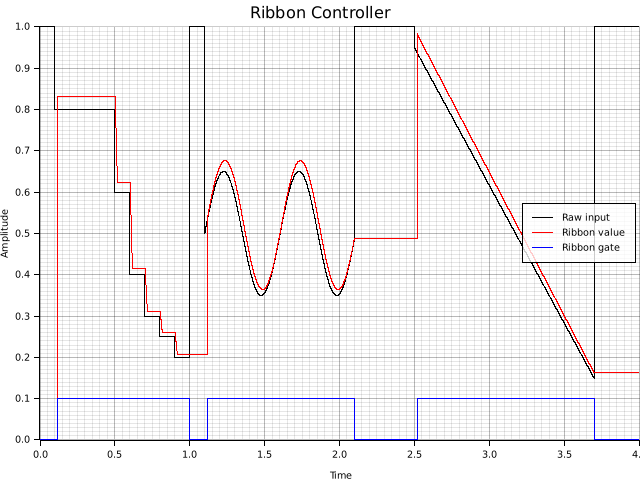
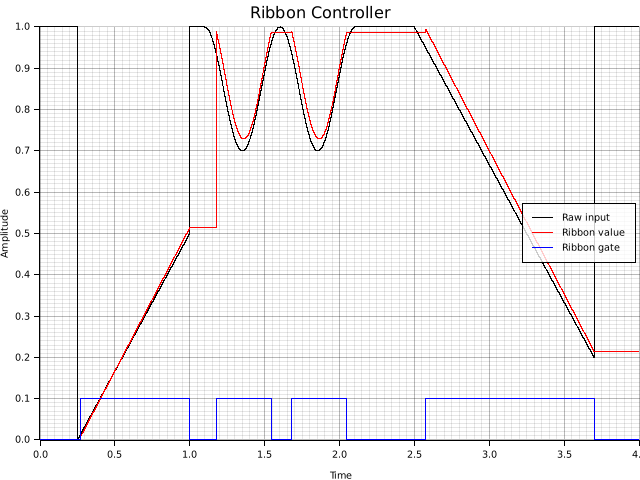
Update ribbon plot example to show clamping behavior

diff --git a/examples/ribbon_plot.rs b/examples/ribbon_plot.rs
@@ -24,33 +24,23 @@ fn main() -> Result<(), Box<dyn std::error::Error>> {
 
     // init the simulated ribbon samples to the out-of-bounds high value 1.0
     let mut mock_adc_signal: [f32; NUM_POINTS] = [1.0; NUM_POINTS];
-    // simulate some finger wiggling
-    // stairstep down pattern
-    mock_adc_signal[1000..5000]
-        .iter_mut()
-        .for_each(|x| *x = 0.80);
-    mock_adc_signal[5000..6000]
-        .iter_mut()
-        .for_each(|x| *x = 0.60);
-    mock_adc_signal[6000..7000]
-        .iter_mut()
-        .for_each(|x| *x = 0.40);
-    mock_adc_signal[7000..8000]
-        .iter_mut()
-        .for_each(|x| *x = 0.30);
-    mock_adc_signal[8000..9000]
-        .iter_mut()
-        .for_each(|x| *x = 0.25);
-    mock_adc_signal[9000..10000]
-        .iter_mut()
-        .for_each(|x| *x = 0.20);
+    // simulate some finger wiggling, the magic number expressions are just to generate some variations in the plot
+    // that show how the ribbon controller responds to some semi-reasonable inputs. feel free to experiment
 
-    // sine simulates vibrato
+    // finger slide from low to high
+    mock_adc_signal[2500..10000]
+        .iter_mut()
+        .enumerate()
+        .for_each(|(i, x)| {
+            *x = i as f32 / 15000.;
+        });
+
+    // sine simulates vibrato and shows clamping at top end
     mock_adc_signal[11000..21000]
         .iter_mut()
         .enumerate()
         .for_each(|(i, x)| {
-            *x = f32::sin(6.238 * (i as f32 / 5000.)) * 0.15 + 0.5;
+            *x = f32::cos(6.238 * (i as f32 / 5000.)) * 0.15 + 0.85;
         });
 
     // finger slide from high to low
@@ -58,7 +48,7 @@ fn main() -> Result<(), Box<dyn std::error::Error>> {
         .iter_mut()
         .enumerate()
         .for_each(|(i, x)| {
-            *x = ((37000. - (i as f32 + 25000.)) / 15000.) + 0.15;
+            *x = ((37000. - (i as f32 + 25000.)) / 15000.) + 0.2;
         });
 
     let root =
